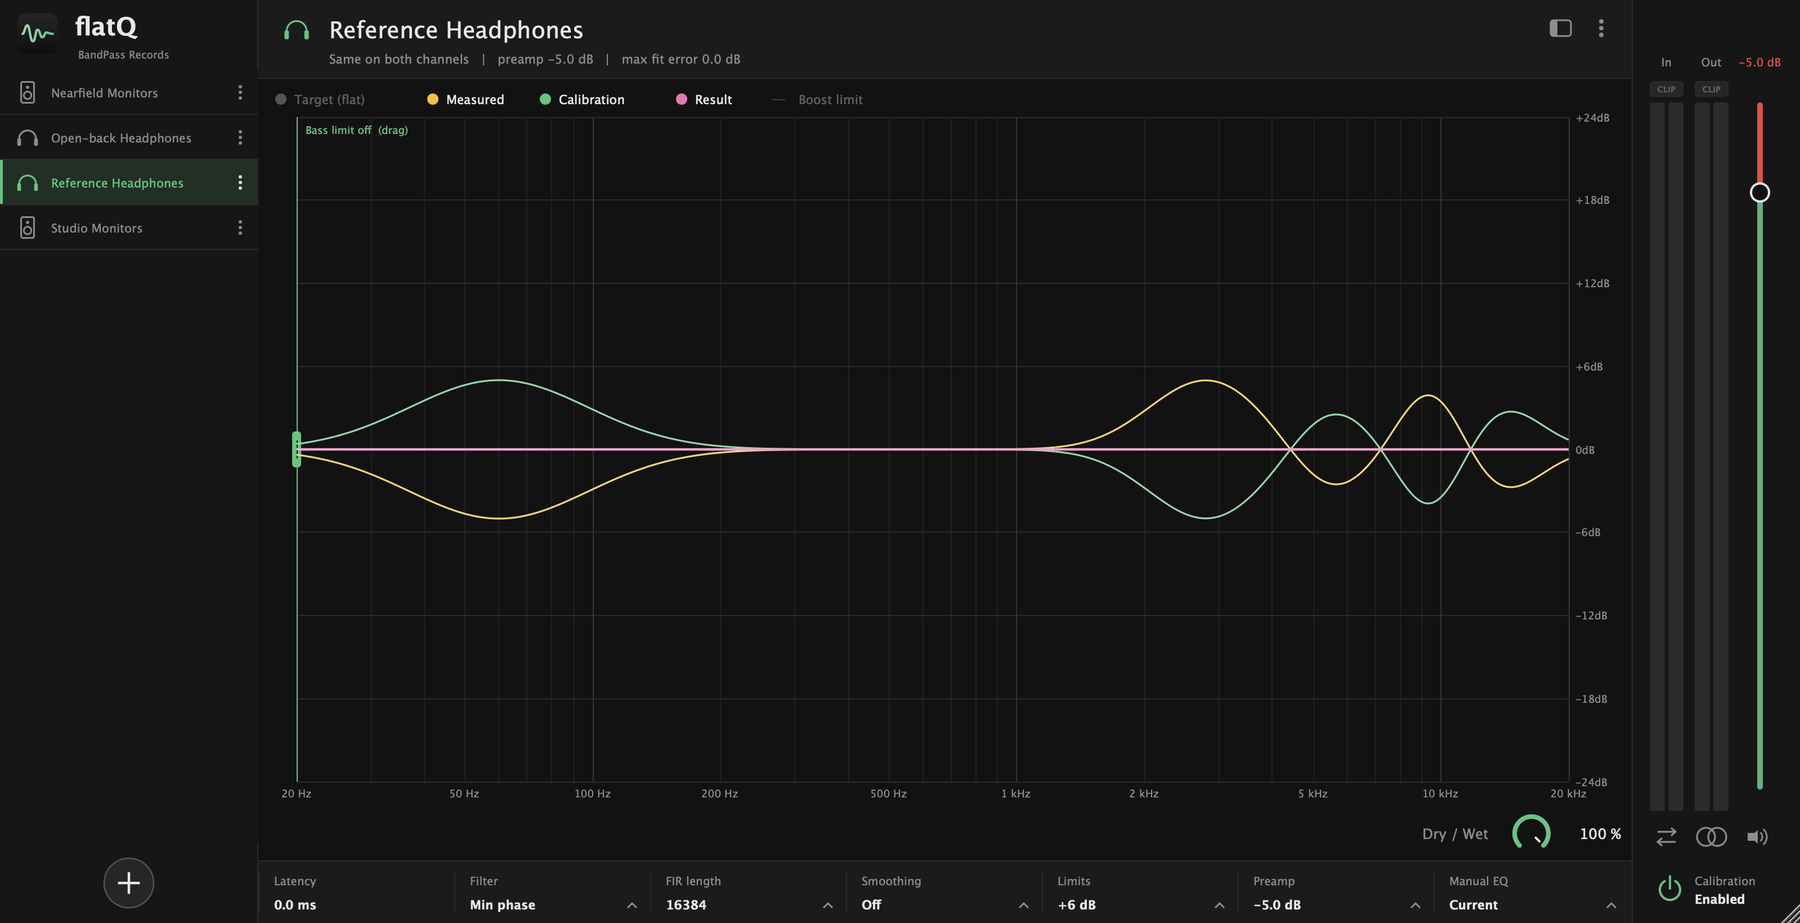
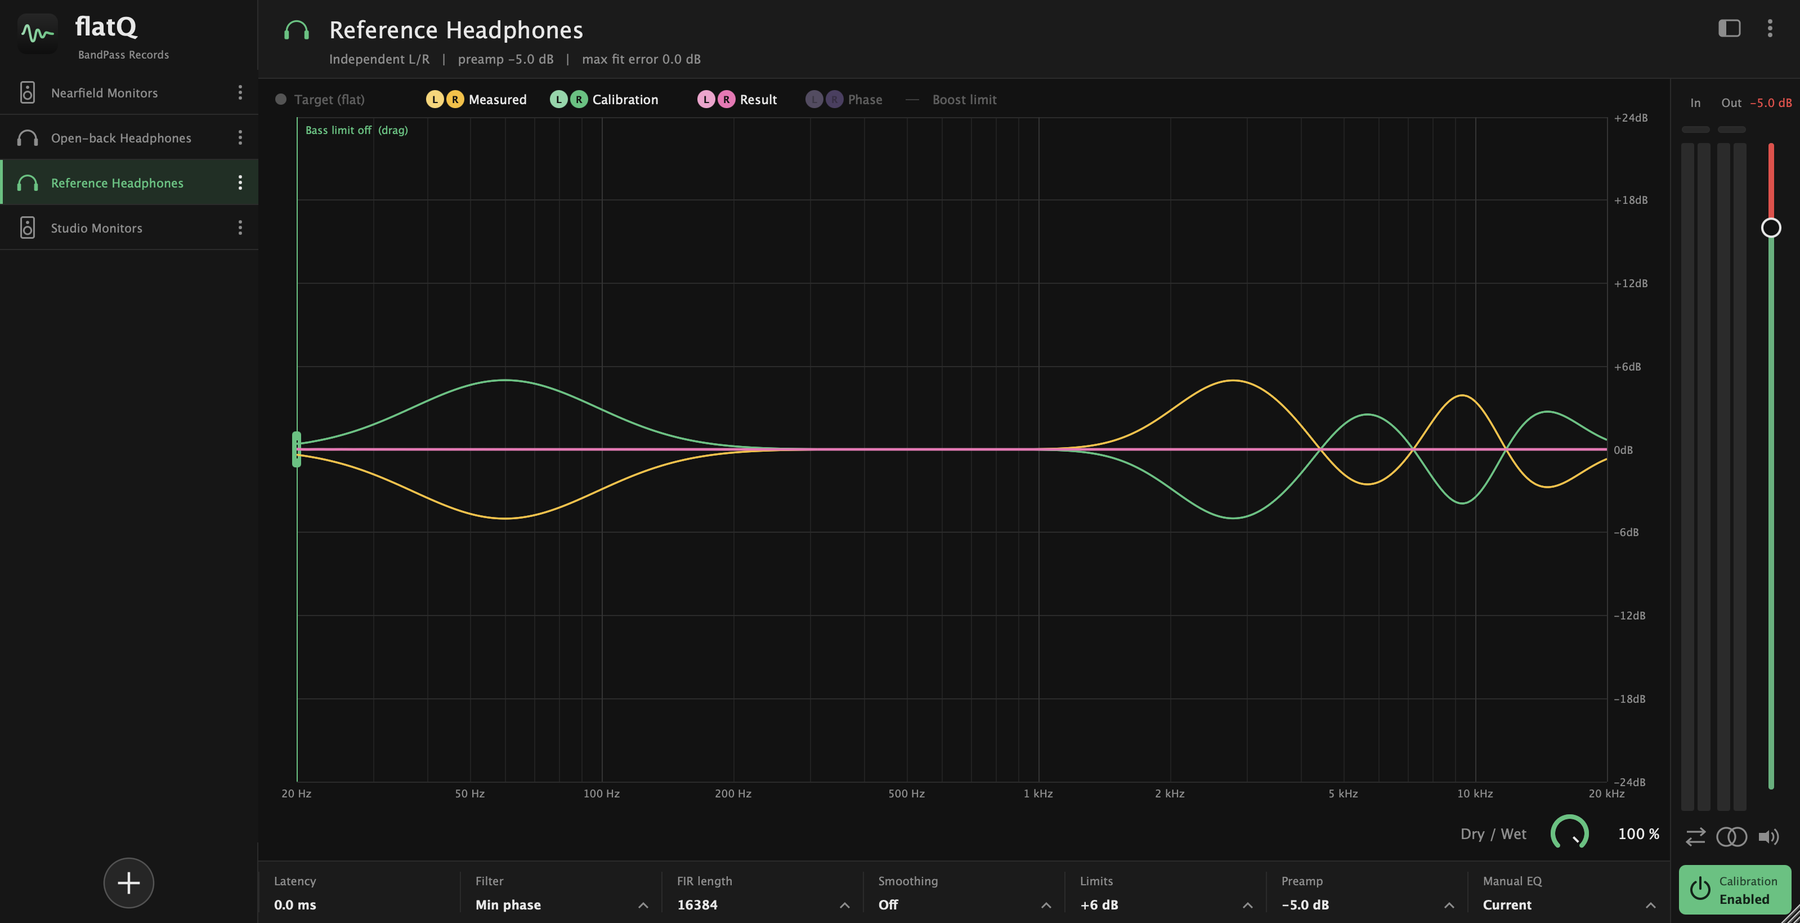
New screenshots: narrower level strip, slim clip bars, Phase curve, Light theme; docs text to match

diff --git a/docs/index.html b/docs/index.html
@@ -138,10 +138,12 @@
         <div><dt>Measured</dt><dd>What your headphones or speakers do, as the profile describes them.</dd></div>
         <div><dt>Calibration</dt><dd>The correction flatQ applies. It is drawn by default.</dd></div>
         <div><dt>Result</dt><dd>Measured plus Calibration. It should land on the flat target.</dd></div>
+        <div><dt>Phase</dt><dd>The phase of the correction, from −180° to +180° (scale on the right edge of the graph). It is off by default. With linear phase it is a flat line at 0°; minimum phase and low latency bend the phase a little where the correction is strong.</dd></div>
         <div><dt>Boost limit</dt><dd>The dashed ceiling some profiles carry for how much they may be boosted. It only shows when the profile has one.</dd></div>
       </dl>
       <figure class="app-window"><img data-zoom src="../img/shots/main-speakers.png" alt="All curves shown for a speaker profile"><figcaption>Measured (yellow), Calibration (green) and Result (pink) for a speaker profile. The shaded area on the left is the bass limit.</figcaption></figure>
       <figure class="app-window"><img data-zoom src="../img/shots/main-headphones.png" alt="All curves shown for a headphone profile"><figcaption>The same view for a headphone profile.</figcaption></figure>
+      <figure class="app-window"><img data-zoom src="../img/shots/phase.png" alt="The Phase curve shown with Calibration"><figcaption>Phase (lilac) next to Calibration, in minimum phase.</figcaption></figure>
       <h3>Bass limit</h3>
       <p>Many speakers cannot play deep bass, and asking for a huge boost there only wastes headroom. Drag the green line on the graph to choose a frequency: <b>boosts below it are cancelled</b>, and the allowed boost rises smoothly back to normal a little above the line. The shaded area shows where the limit applies. Drag the line all the way left to turn it off.</p>
     </section>
@@ -204,7 +206,7 @@
       <h2>Output controls</h2>
       <p>The strip on the right is the last stage of the plug-in.</p>
       <ul>
-        <li><b>In / Out meters</b> with a <b>CLIP</b> light each. A light stays on after a peak; click it to reset.</li>
+        <li><b>In / Out meters</b> with a thin <b>clip bar</b> above each. The bar turns red when the level reaches 0 dBFS and stays red until you click it.</li>
         <li><b>Output fader.</b> The level shows above it. The red part at the top marks the levels above the profile's limit.</li>
         <li><b>Swap L/R</b> exchanges the two channels.</li>
         <li><b>Mono</b> sums left and right.</li>
@@ -234,6 +236,7 @@
       <ul>
         <li><b>Load the last used profile on start</b> opens flatQ with the profile you used last.</li>
         <li><b>Show tooltips</b> turns the hover hints on or off.</li>
+        <li><b>Light theme</b> switches flatQ between the dark and the light look.</li>
         <li><b>Open profiles folder</b> and <b>Open settings folder</b> show where flatQ keeps your files.</li>
         <li><b>Skip on offline export</b> (in the plug-in, inside a host) passes the audio through untouched while your DAW bounces or exports, so the file does not carry the correction.</li>
       </ul>
